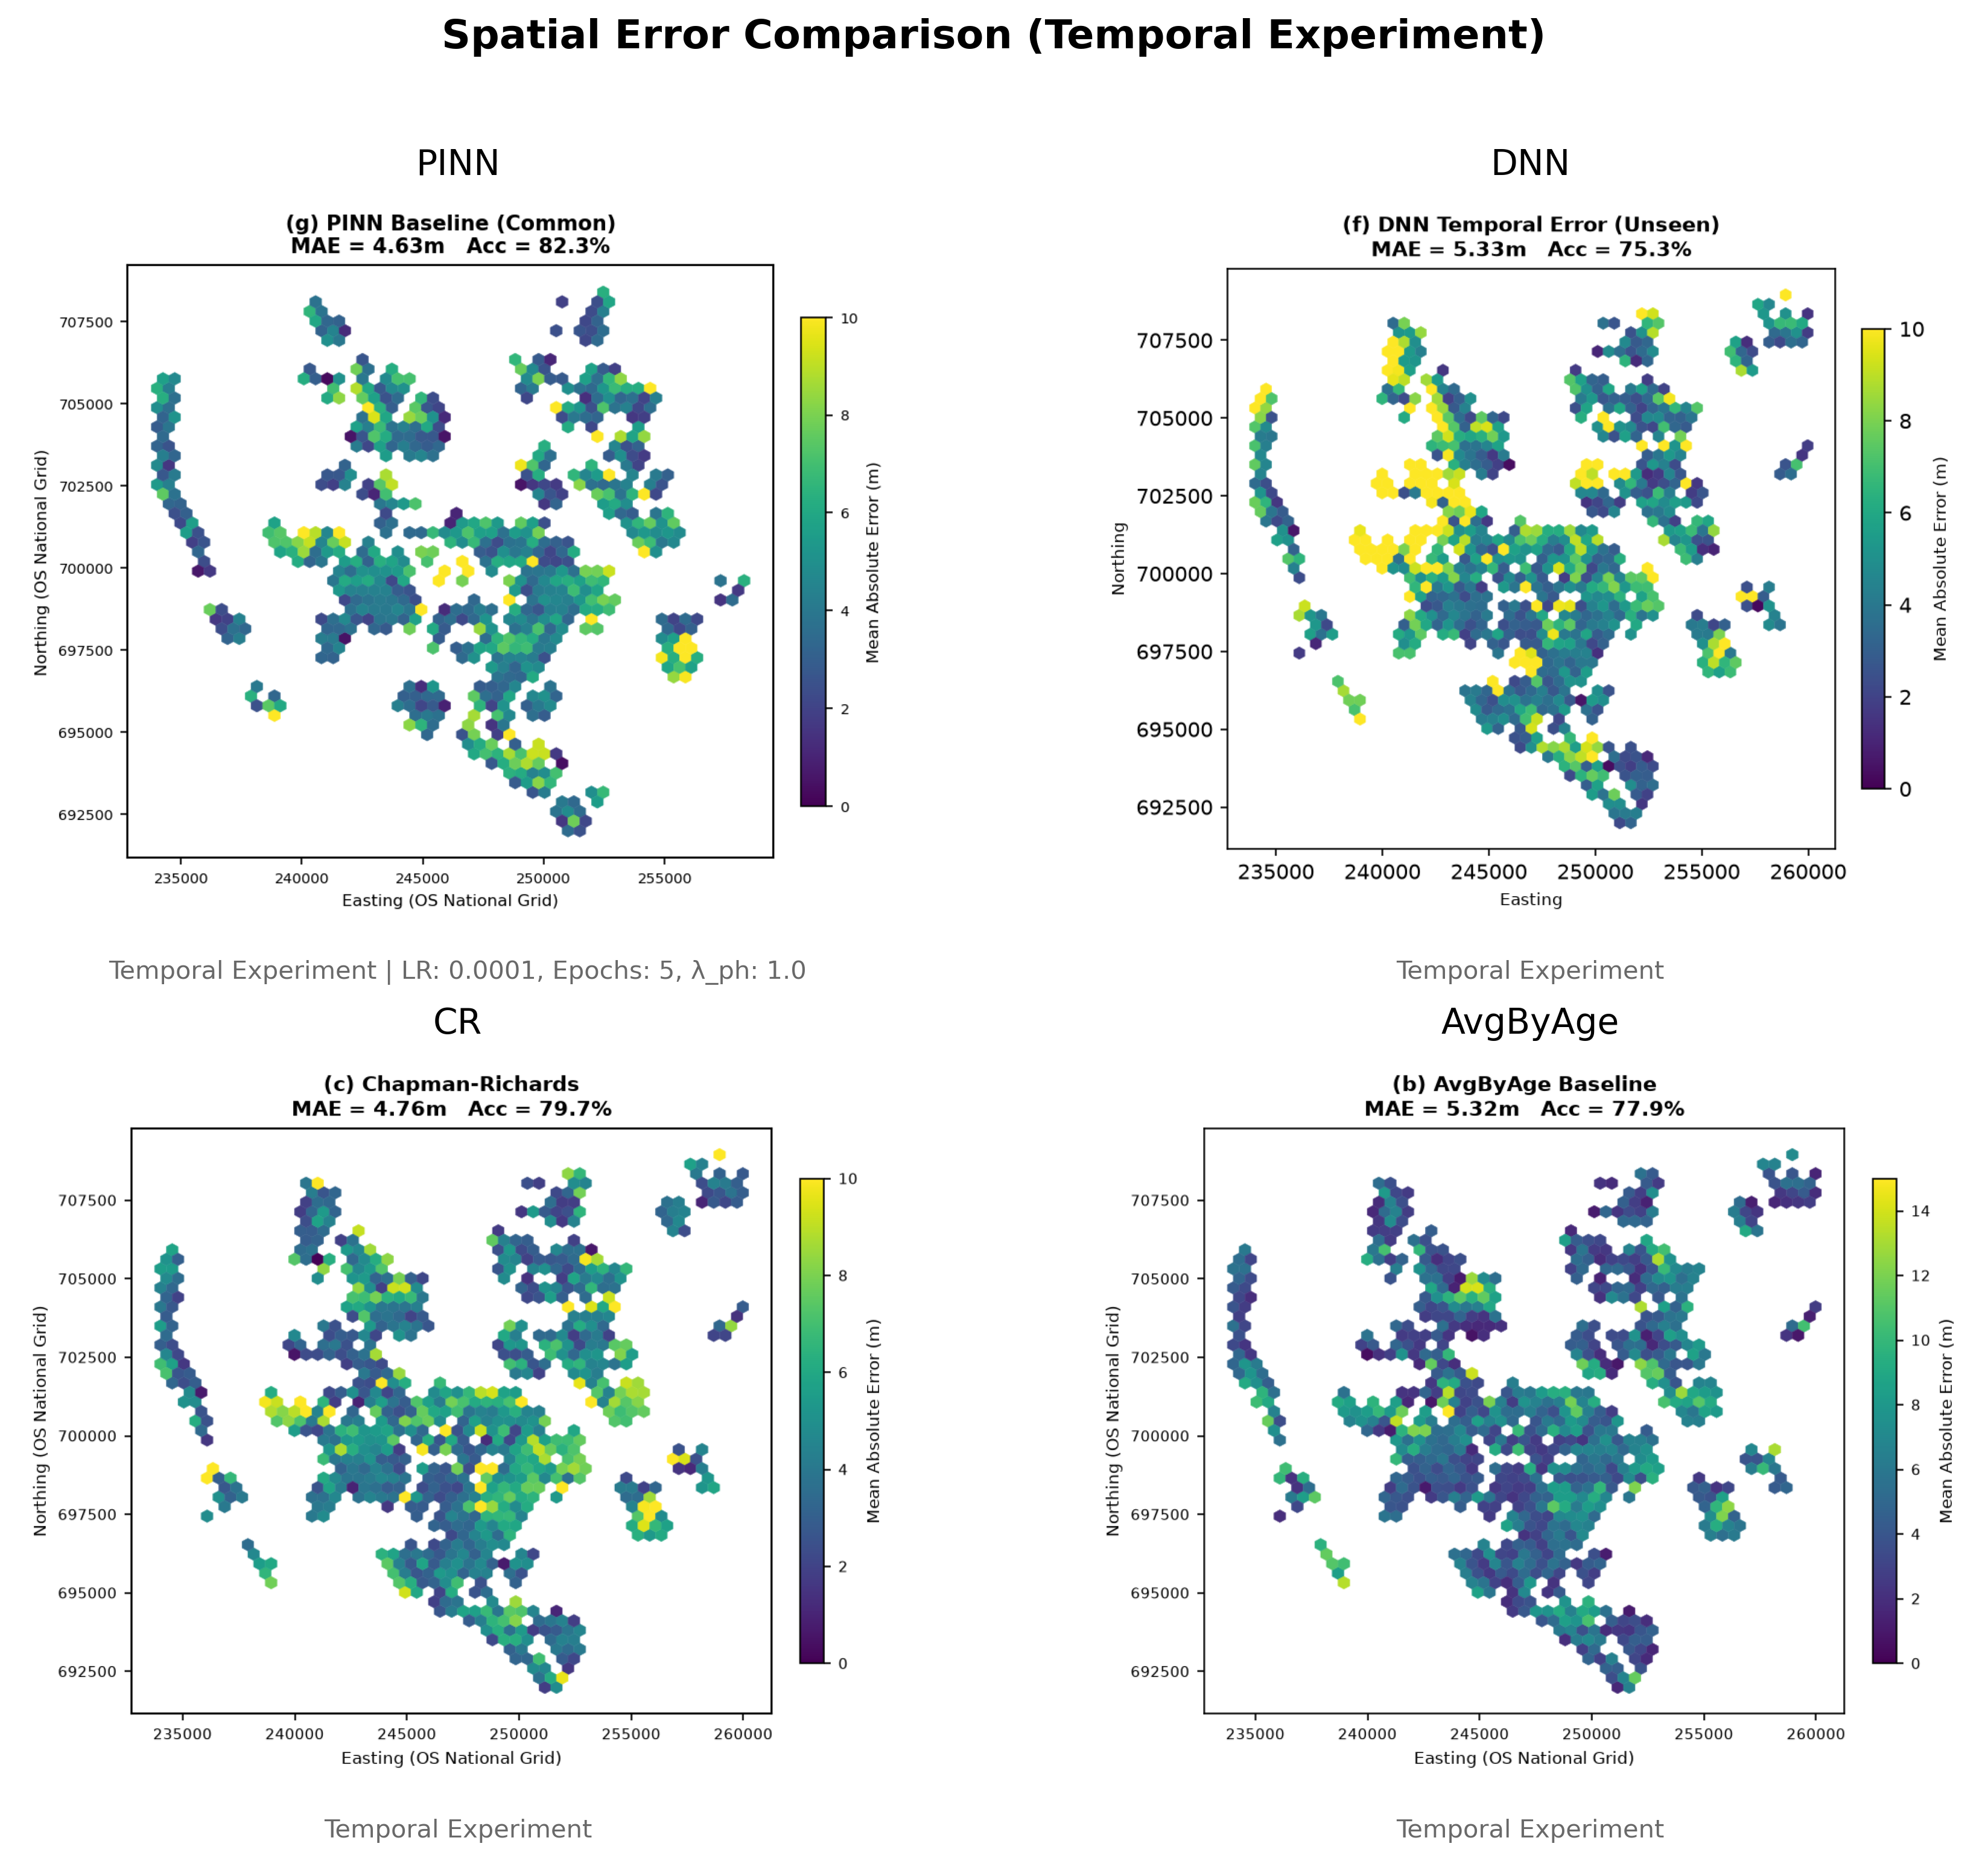
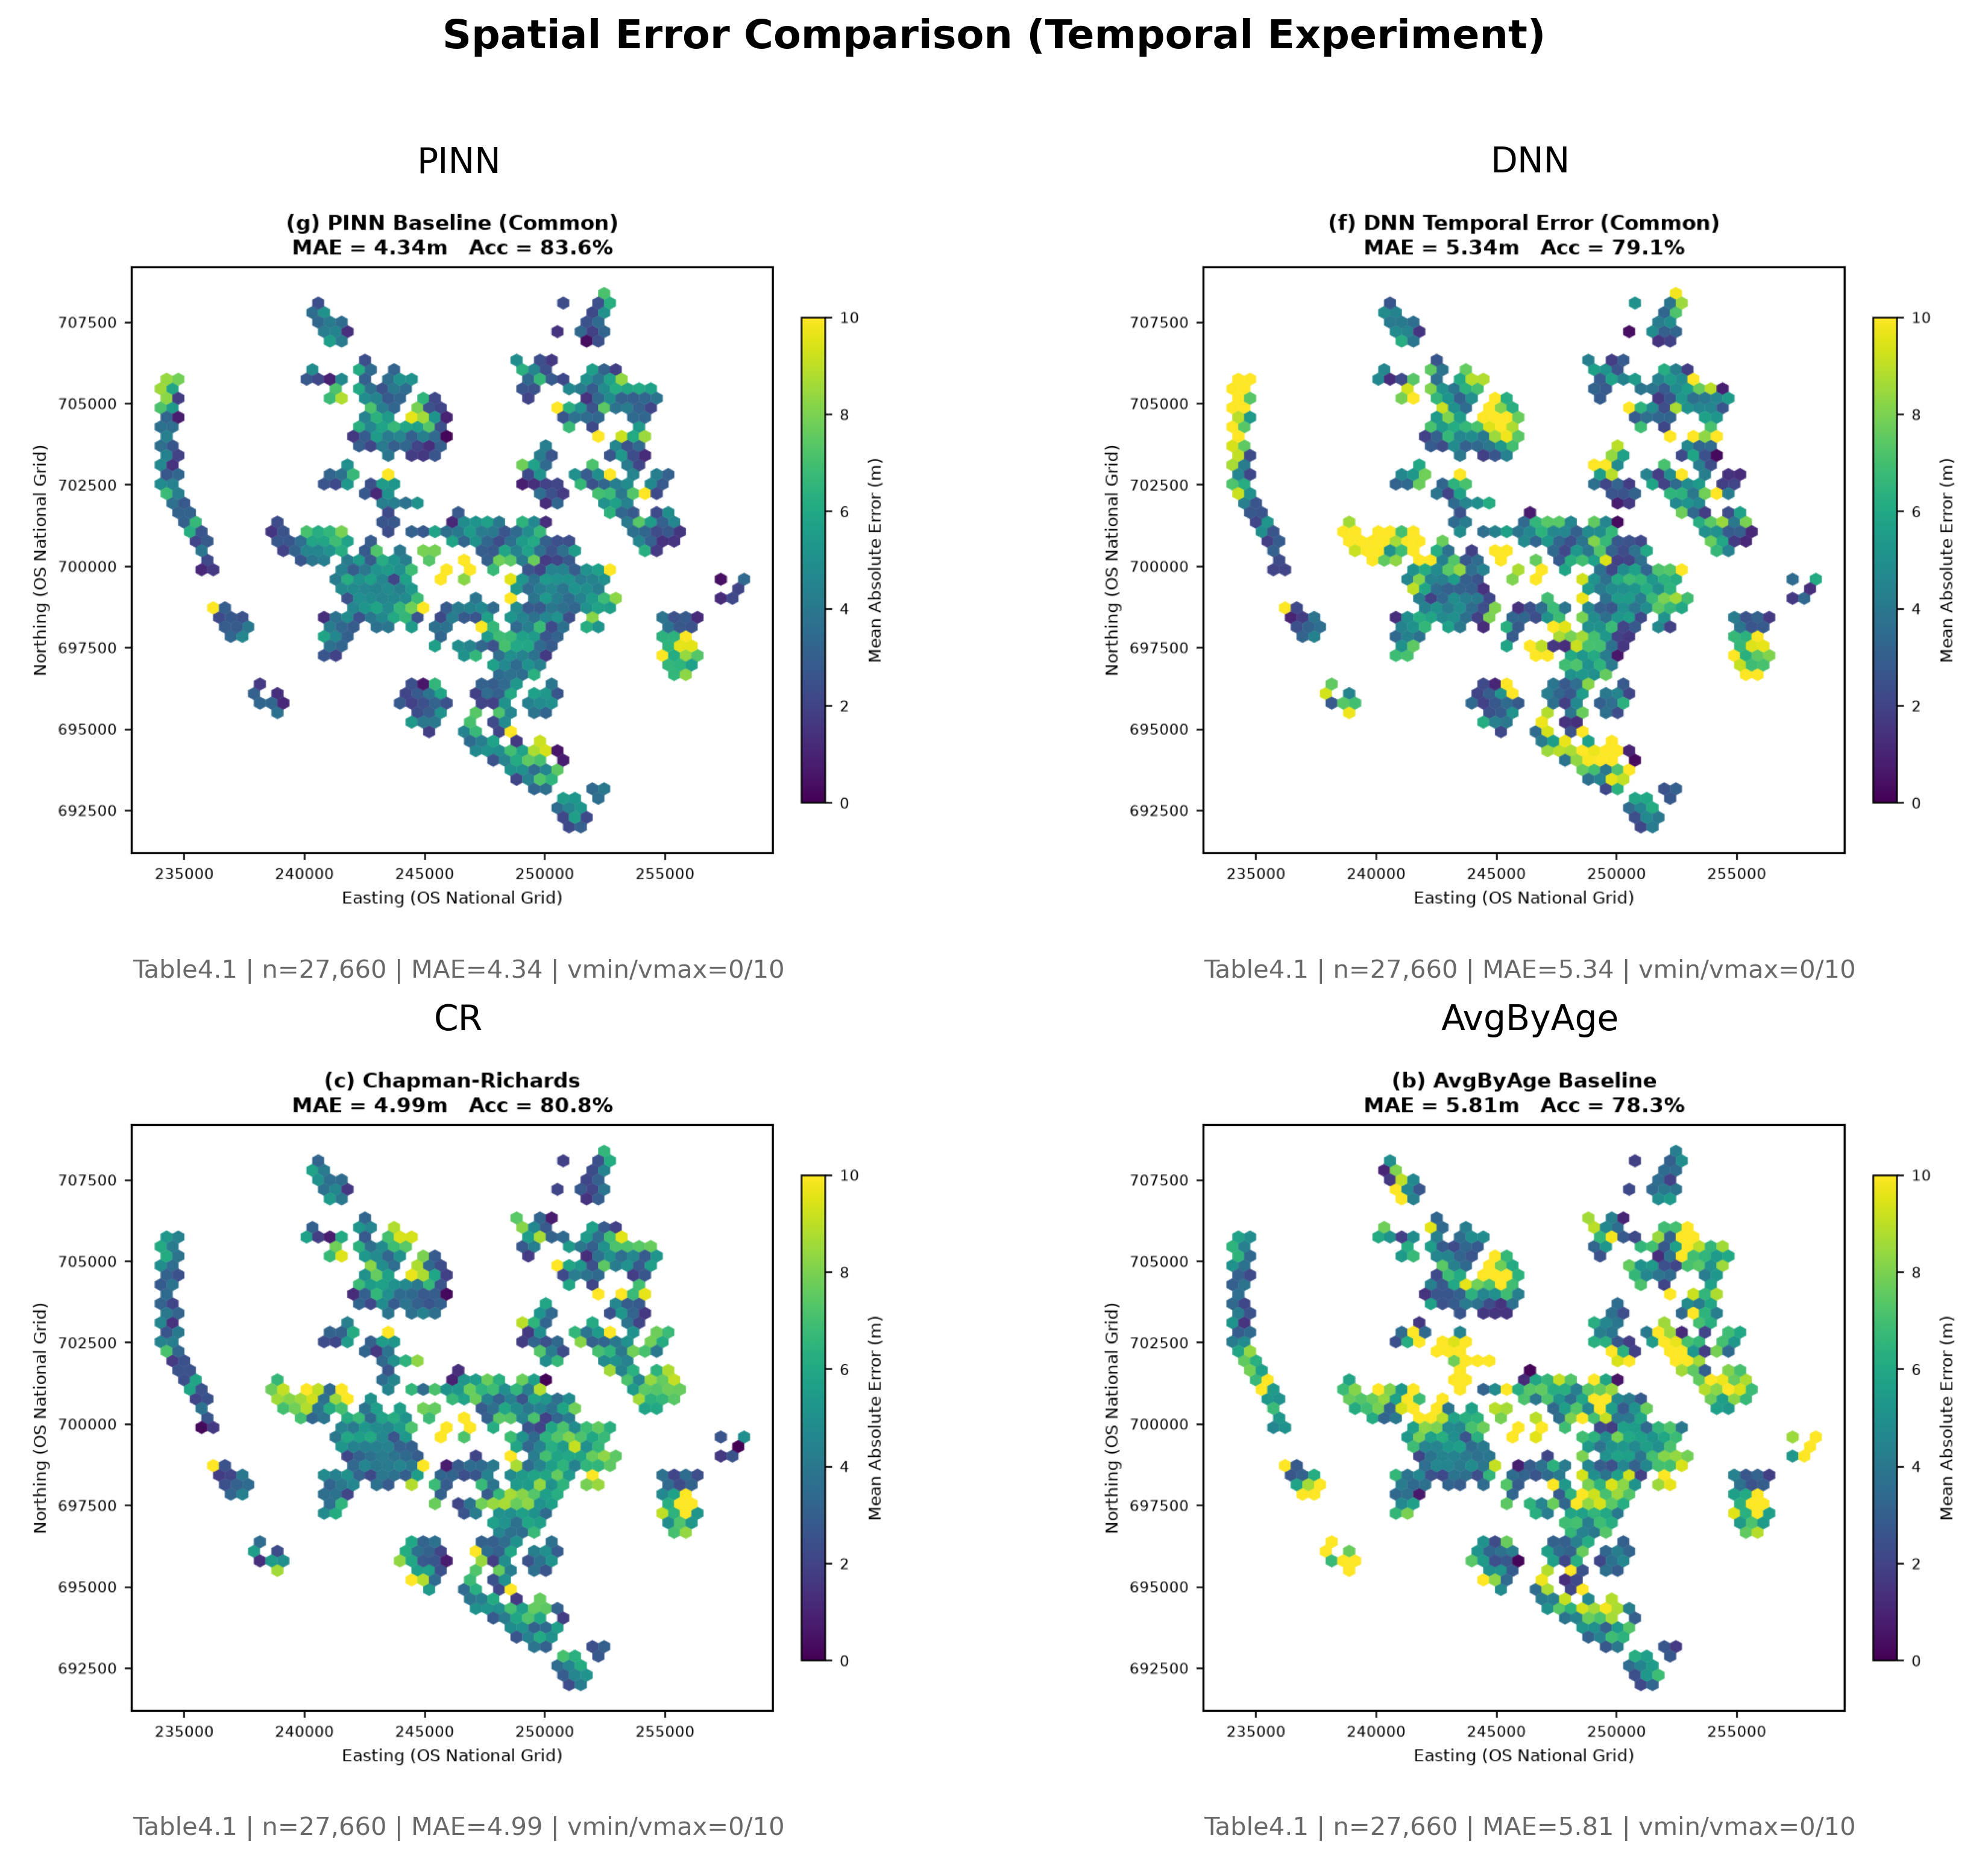
fix: plot graphs using mean relative error

diff --git a/common/spatial_plots.py b/common/spatial_plots.py
@@ -20,14 +20,15 @@ import matplotlib.pyplot as plt
 from common.metrics import reuben_metrics
 
 
-ABS_ERROR_VMIN = 0
-ABS_ERROR_VMAX = 10
-SIGNED_ERROR_VMIN = -10
-SIGNED_ERROR_VMAX = 10
+REL_ERROR_VMIN = 0
+REL_ERROR_VMAX = 0.5
+REL_ERROR_CAP = 0.5
+SIGNED_REL_ERROR_VMIN = -1.0
+SIGNED_REL_ERROR_VMAX = 1.0
 GRID_SIZE = 50
 REDUCE_C_FUNCTION = np.mean
 REDUCE_C_FUNCTION_NAME = "np.mean"
-ABS_ERROR_CMAP = plt.cm.viridis
+REL_ERROR_CMAP = plt.cm.viridis
 SIGNED_ERROR_CMAP = mcolors.LinearSegmentedColormap.from_list(
     "pink_white_blue", ["#e87fa0", "#ffffff", "#3b6fb6"]
 )
@@ -77,17 +78,21 @@ def plot_spatial_error(
     data_path_label="purged",
     extra_metadata=None,
 ):
-    """Plot mean absolute error by spatial hexbin with shared settings."""
+    """Plot capped mean relative error by spatial hexbin with shared settings."""
     y_test = np.asarray(y_test)
     y_pred = np.asarray(y_pred)
     abs_err = np.abs(y_test - y_pred)
-    cmap = ABS_ERROR_CMAP
+    rel_err = abs_err / (np.abs(y_test) + 1e-8)
+    capped_rel_err = np.minimum(rel_err, REL_ERROR_CAP)
+    cmap = REL_ERROR_CMAP
 
     print(
         f"[plot_spatial_error] {title}: "
-        f"C=abs(y_test-y_pred), mean={abs_err.mean():.4f}, "
-        f"min={abs_err.min():.4f}, max={abs_err.max():.4f}, "
-        f"vmin={ABS_ERROR_VMIN}, vmax={ABS_ERROR_VMAX}, "
+        f"C=min(abs(y_test-y_pred)/(abs(y_test)+1e-8), {REL_ERROR_CAP}), "
+        f"mean={capped_rel_err.mean():.4f}, "
+        f"min={capped_rel_err.min():.4f}, max={capped_rel_err.max():.4f}, "
+        f"uncapped_mean={rel_err.mean():.4f}, uncapped_max={rel_err.max():.4f}, "
+        f"vmin={REL_ERROR_VMIN}, vmax={REL_ERROR_VMAX}, "
         f"cmap={cmap.name}, reduce_C_function={REDUCE_C_FUNCTION_NAME}, "
         f"table={table}, data={data_path_label}"
     )
@@ -98,12 +103,12 @@ def plot_spatial_error(
     hb = ax.hexbin(
         X_coords,
         Y_coords,
-        C=abs_err,
+        C=capped_rel_err,
         reduce_C_function=REDUCE_C_FUNCTION,
         gridsize=GRID_SIZE,
         cmap=cmap,
-        vmin=ABS_ERROR_VMIN,
-        vmax=ABS_ERROR_VMAX,
+        vmin=REL_ERROR_VMIN,
+        vmax=REL_ERROR_VMAX,
         linewidths=0.2,
     )
 
@@ -117,7 +122,7 @@ def plot_spatial_error(
     ax.tick_params(labelsize=7)
 
     cb = fig.colorbar(hb, ax=ax, fraction=0.035, pad=0.04)
-    cb.set_label("Mean Absolute Error (m)", fontsize=8)
+    cb.set_label("Mean Relative Error (capped at 0.5)", fontsize=8)
     cb.ax.tick_params(labelsize=7)
 
     for spine in ax.spines.values():
@@ -131,11 +136,16 @@ def plot_spatial_error(
     print(f"Saved spatial error map to {plot_path}")
 
     metadata = _base_metadata(
-        "absolute_error", table, data_path_label, title, filename, abs_err, y_test, y_pred
+        "relative_error_capped", table, data_path_label, title, filename, capped_rel_err, y_test, y_pred
     )
     metadata.update({
-        "vmin": ABS_ERROR_VMIN,
-        "vmax": ABS_ERROR_VMAX,
+        "vmin": REL_ERROR_VMIN,
+        "vmax": REL_ERROR_VMAX,
+        "relative_error_cap": REL_ERROR_CAP,
+        "uncapped_relative_error_mean": float(np.mean(rel_err)),
+        "uncapped_relative_error_min": float(np.min(rel_err)),
+        "uncapped_relative_error_max": float(np.max(rel_err)),
+        "c_description": "min(abs(y_true - y_pred) / (abs(y_true) + 1e-8), 0.5)",
         "cmap": cmap.name,
         "metric_values": metrics,
     })
@@ -156,17 +166,19 @@ def plot_spatial_signed_error(
     data_path_label="purged",
     extra_metadata=None,
 ):
-    """Plot signed error by spatial hexbin with shared settings."""
+    """Plot signed relative error by spatial hexbin with shared settings."""
     y_test = np.asarray(y_test)
     y_pred = np.asarray(y_pred)
     signed_err = y_test - y_pred
+    signed_rel_err = signed_err / (np.abs(y_test) + 1e-8)
     cmap = SIGNED_ERROR_CMAP
 
     print(
         f"[plot_spatial_signed_error] {title}: "
-        f"C=y_test-y_pred, mean={signed_err.mean():.4f}, "
-        f"min={signed_err.min():.4f}, max={signed_err.max():.4f}, "
-        f"vmin={SIGNED_ERROR_VMIN}, vmax={SIGNED_ERROR_VMAX}, "
+        f"C=(y_test-y_pred)/(abs(y_test)+1e-8), mean={signed_rel_err.mean():.4f}, "
+        f"min={signed_rel_err.min():.4f}, max={signed_rel_err.max():.4f}, "
+        f"mean_signed_m={signed_err.mean():.4f}, "
+        f"vmin={SIGNED_REL_ERROR_VMIN}, vmax={SIGNED_REL_ERROR_VMAX}, "
         f"cmap={cmap.name}, reduce_C_function={REDUCE_C_FUNCTION_NAME}, "
         f"table={table}, data={data_path_label}"
     )
@@ -175,17 +187,17 @@ def plot_spatial_signed_error(
     hb = ax.hexbin(
         X_coords,
         Y_coords,
-        C=signed_err,
+        C=signed_rel_err,
         reduce_C_function=REDUCE_C_FUNCTION,
         gridsize=GRID_SIZE,
         cmap=cmap,
-        vmin=SIGNED_ERROR_VMIN,
-        vmax=SIGNED_ERROR_VMAX,
+        vmin=SIGNED_REL_ERROR_VMIN,
+        vmax=SIGNED_REL_ERROR_VMAX,
         linewidths=0.2,
     )
 
     ax.set_title(
-        f"{title}\nMean Signed Error = {signed_err.mean():+.2f}m",
+        f"{title}\nMean Signed Rel. Error = {signed_rel_err.mean():+.3f}",
         fontsize=10,
         fontweight="bold",
     )
@@ -195,7 +207,7 @@ def plot_spatial_signed_error(
 
     cb = fig.colorbar(hb, ax=ax, fraction=0.035, pad=0.04)
     cb.set_label(
-        "Signed Error, actual - predicted (m)\npink = underpredicted, blue = overpredicted",
+        "Signed Relative Error, (actual - predicted) / actual\npink = underpredicted, blue = overpredicted",
         fontsize=8,
     )
     cb.ax.tick_params(labelsize=7)
@@ -211,11 +223,15 @@ def plot_spatial_signed_error(
     print(f"Saved spatial signed error map to {plot_path}")
 
     metadata = _base_metadata(
-        "signed_error", table, data_path_label, title, filename, signed_err, y_test, y_pred
+        "signed_relative_error", table, data_path_label, title, filename, signed_rel_err, y_test, y_pred
     )
     metadata.update({
-        "vmin": SIGNED_ERROR_VMIN,
-        "vmax": SIGNED_ERROR_VMAX,
+        "vmin": SIGNED_REL_ERROR_VMIN,
+        "vmax": SIGNED_REL_ERROR_VMAX,
+        "c_description": "(y_true - y_pred) / (abs(y_true) + 1e-8)",
+        "mean_signed_error_m": float(np.mean(signed_err)),
+        "min_signed_error_m": float(np.min(signed_err)),
+        "max_signed_error_m": float(np.max(signed_err)),
         "cmap": cmap.name,
         "metric_values": reuben_metrics(y_test, y_pred, label=f"{title} signed-plot"),
     })

diff --git a/outputs/compare_results/compare_graphs_spatial_signed_error.py b/outputs/compare_results/compare_graphs_spatial_signed_error.py
@@ -12,7 +12,7 @@ MODEL_MAP = {
     "avg_by_age": "AvgByAge",
 }
 
-EXPECTED_PLOT_TYPE = "signed_error"
+EXPECTED_PLOT_TYPE = "signed_relative_error"
 EXPECTED_TABLE = "Table4.1"
 COMPARABLE_KEYS = [
     "plot_type",
@@ -81,7 +81,7 @@ def main():
             
             caption = (
                 f"{metadata['table']} | n={metadata['n_test']:,} | "
-                f"mean signed={metadata['c_mean']:+.2f} | "
+                f"mean signed rel={metadata['c_mean']:+.3f} | "
                 f"vmin/vmax={metadata['vmin']}/{metadata['vmax']}"
             )
             
@@ -109,7 +109,25 @@ def main():
     rows = (n_plots + 1) // cols
     
     fig, axes = plt.subplots(rows, cols, figsize=(12, 5 * rows))
-    fig.suptitle('Spatial Signed Error Comparison (Temporal Experiment)', fontsize=16, fontweight='bold', y=1.02)
+    fig.suptitle('Spatial Signed Relative Error Comparison (Temporal Experiment)', fontsize=16, fontweight='bold', y=1.07)
+    fig.text(
+        0.5,
+        1.02,
+        "Each panel is a spatial hexbin map: x-axis = Easting, y-axis = Northing (OS National Grid); colour shows mean signed relative error for plots in that area.",
+        ha="center",
+        va="top",
+        fontsize=10,
+        color="dimgray",
+    )
+    fig.text(
+        0.5,
+        0.99,
+        "Signed relative error = (actual - predicted) / actual; negative = actual < predicted (overpredicted/reduced growth), positive = actual > predicted (underpredicted)",
+        ha="center",
+        va="top",
+        fontsize=10,
+        color="dimgray",
+    )
     axes = axes.flatten()
 
     for i, data in enumerate(plot_data):

diff --git a/outputs/compare_results/compare_graphs_spatial_error.py b/outputs/compare_results/compare_graphs_spatial_error.py
@@ -12,7 +12,7 @@ MODEL_MAP = {
     "avg_by_age": "AvgByAge",
 }
 
-EXPECTED_PLOT_TYPE = "absolute_error"
+EXPECTED_PLOT_TYPE = "relative_error_capped"
 EXPECTED_TABLE = "Table4.1"
 COMPARABLE_KEYS = [
     "plot_type",
@@ -81,7 +81,7 @@ def main():
             
             caption = (
                 f"{metadata['table']} | n={metadata['n_test']:,} | "
-                f"MAE={metadata.get('metric_values', {}).get('mae', float('nan')):.2f} | "
+                f"MRE={metadata.get('metric_values', {}).get('mre', float('nan')):.3f} | "
                 f"vmin/vmax={metadata['vmin']}/{metadata['vmax']}"
             )
             
@@ -109,7 +109,16 @@ def main():
     rows = (n_plots + 1) // cols
     
     fig, axes = plt.subplots(rows, cols, figsize=(12, 5 * rows))
-    fig.suptitle('Spatial Error Comparison (Temporal Experiment)', fontsize=16, fontweight='bold', y=1.02)
+    fig.suptitle('Spatial Relative Error Comparison (Temporal Experiment)', fontsize=16, fontweight='bold', y=1.05)
+    fig.text(
+        0.5,
+        0.995,
+        "Each panel is a spatial hexbin map: x-axis = Easting, y-axis = Northing (OS National Grid); colour shows mean capped relative error for plots in that area.",
+        ha="center",
+        va="top",
+        fontsize=10,
+        color="dimgray",
+    )
     axes = axes.flatten()
 
     for i, data in enumerate(plot_data):

diff --git a/scientific_fairness_audit.md b/scientific_fairness_audit.md
@@ -116,13 +116,15 @@ Implemented fix:
 
 ## Plotting Consistency
 
-The current plot code has been mostly standardized for spatial hexbins:
+The current plot code has been standardized for spatial hexbins:
 
-- Absolute error maps use `C = np.abs(y_test - y_pred)`.
-- Absolute maps use `vmin=0`, `vmax=10`.
-- Absolute maps use `cmap=plt.cm.viridis`.
-- Signed maps use `C = y_test - y_pred`.
-- Signed maps use `vmin=-10`, `vmax=10`.
+- Unsigned spatial error maps use Reuben-style capped relative error:
+  `C = min(abs(y_test - y_pred) / (abs(y_test) + 1e-8), 0.5)`.
+- Unsigned maps use `vmin=0`, `vmax=0.5`.
+- Unsigned maps use `cmap=plt.cm.viridis`.
+- Signed maps use signed relative error:
+  `C = (y_test - y_pred) / (abs(y_test) + 1e-8)`.
+- Signed maps use `vmin=-1`, `vmax=1`.
 - Signed maps use `PINK_WHITE_BLUE`.
 - All checked maps use `reduce_C_function=np.mean`.
 